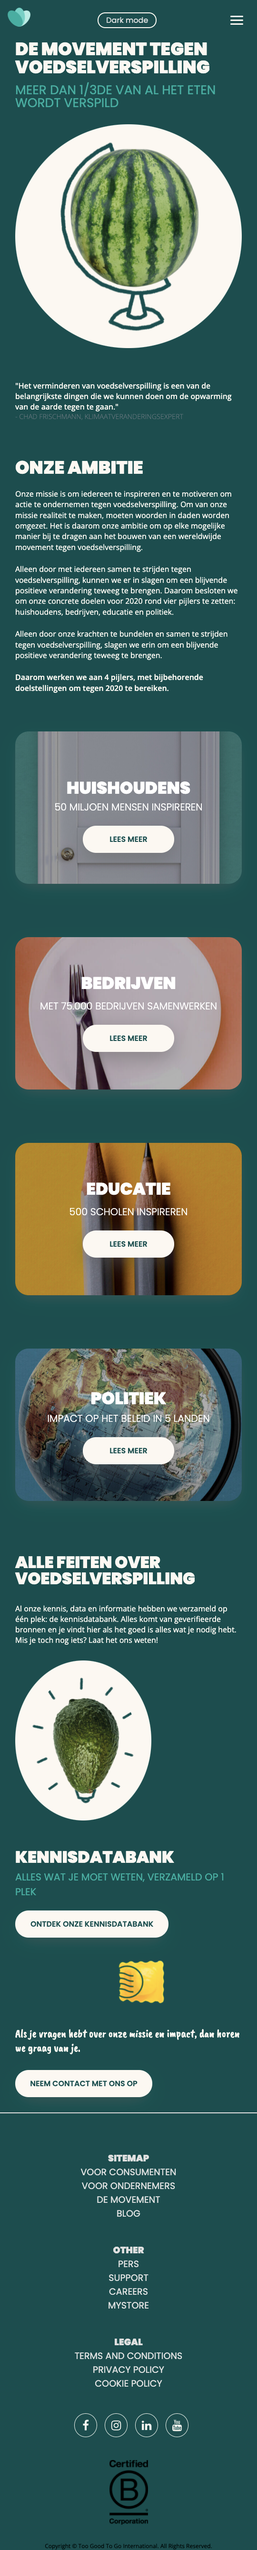
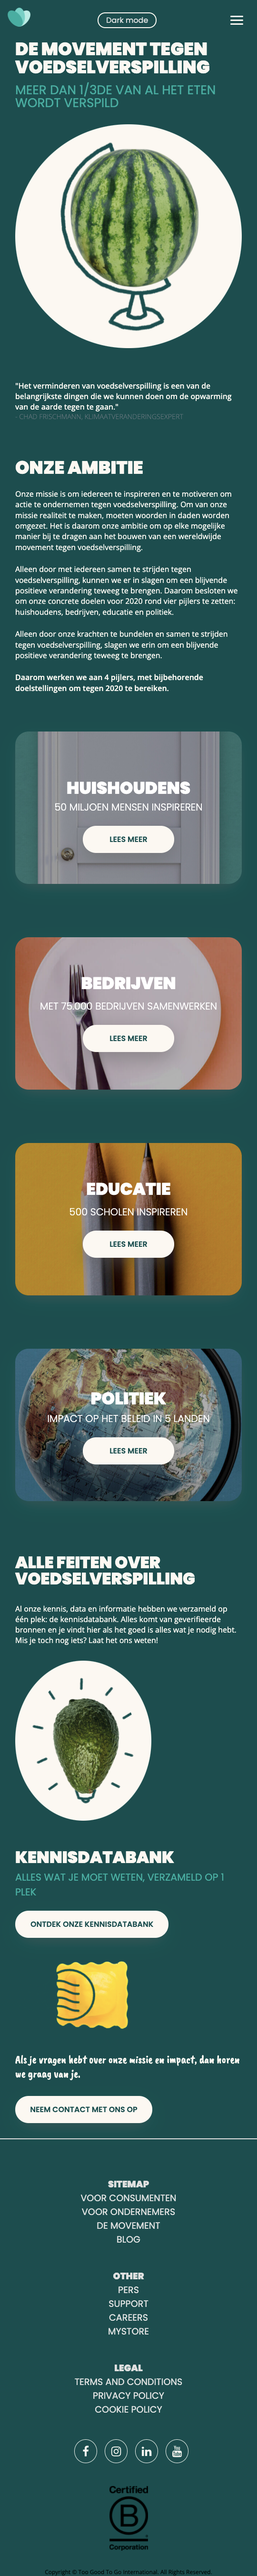
Add files via upload

diff --git a/styles/style.css b/styles/style.css
@@ -774,7 +774,8 @@ main.tweedePagina section:nth-of-type(8) p {
 }
 
 main.tweedePagina section:nth-of-type(8) img {
-  margin: 3em auto 3em auto;
+  margin: 3em 0 3em 0;
+  width: 50%;
 }
 
 main.tweedePagina section:nth-of-type(8) a {
